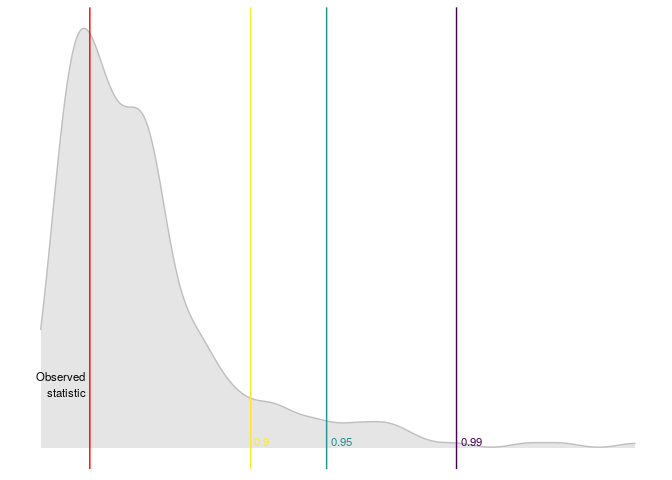
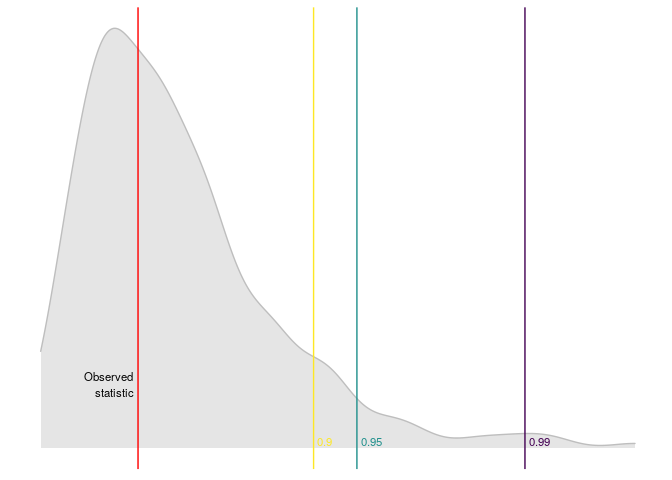
updating readme

Changed region(s): [[0.0625, 0.0312, 0.9062, 0.9688], [0.0625, 0.75, 0.2188, 0.8438], [0.375, 0.9062, 0.4062, 0.9375]]

diff --git a/README.md b/README.md
@@ -19,6 +19,13 @@ model:
 Using the Domínguez-Lobato test which relies on wild-bootstrap. Also the
 Ramsey RESET test is implemented.
 
+## References
+
+  - Manuel A. Domínguez and Ignacio N. Lobato (2019). [Specification
+    testing with estimated
+    variables.](https://www.tandfonline.com/doi/citedby/10.1080/07474938.2019.1687116?)
+    Econometric Reviews.
+
 ## Installation
 
 You can install the released version of `lineartestr` from
@@ -57,10 +64,10 @@ dplyr::glimpse(dl_test$test)
 #> $ name_distribution <chr> "rnorm"
 #> $ name_statistic    <chr> "cvm_value"
 #> $ statistic         <dbl> 7.562182e-29
-#> $ p_value           <dbl> 0.37
-#> $ quantile_90       <dbl> 2.345718e-28
-#> $ quantile_95       <dbl> 3.641501e-28
-#> $ quantile_99       <dbl> 5.749889e-28
+#> $ p_value           <dbl> 0.42
+#> $ quantile_90       <dbl> 2.903875e-28
+#> $ quantile_95       <dbl> 3.660387e-28
+#> $ quantile_99       <dbl> 5.240289e-28
 ```
 
 Also `lineartestr` can plot the results
@@ -90,10 +97,10 @@ dplyr::glimpse(dl_test_p$test)
 #> $ name_distribution <chr> "rnorm"
 #> $ name_statistic    <chr> "cvm_value"
 #> $ statistic         <dbl> 6.324343e-21
-#> $ p_value           <dbl> 0.3633333
-#> $ quantile_90       <dbl> 1.826202e-20
-#> $ quantile_95       <dbl> 2.629817e-20
-#> $ quantile_99       <dbl> 4.179079e-20
+#> $ p_value           <dbl> 0.29
+#> $ quantile_90       <dbl> 1.597342e-20
+#> $ quantile_95       <dbl> 2.599619e-20
+#> $ quantile_99       <dbl> 4.303673e-20
 ```
 
 #### *RESET* test can also be used to test the linear hypothesis
@@ -113,8 +120,8 @@ r_test <- reset_test(lm_model)
 dplyr::glimpse(r_test)
 #> Observations: 1
 #> Variables: 6
-#> $ statistic   <dbl> 1.90962
-#> $ p_value     <dbl> 0.3848852
+#> $ statistic   <dbl> 0.1049317
+#> $ p_value     <dbl> 0.9488867
 #> $ df          <int> 2
 #> $ quantile_90 <dbl> 4.60517
 #> $ quantile_95 <dbl> 5.991465
@@ -130,7 +137,7 @@ plot_reset_test(r_test)
 
 <img src="man/figures/README-plot_reset-1.png" width="70%" />
 
-### Linear fixed effects with [`lfe`](https://cran.r-project.org/web/packages/lfe/lfe.pdf)
+### Linear fixed effects with [`lfe`](https://cran.R-project.org/web/packages/lfe/lfe.pdf)
 
 ``` r
 library(lineartestr)
@@ -195,10 +202,3 @@ dominguez_lobato_test(arma_model) %>%
 ```
 
 <img src="man/figures/README-example_arma-1.png" width="70%" />
-
-## References
-
-  - Manuel A. Domínguez and Ignacio N. Lobato (2019). [Specification
-    testing with estimated
-    variables.](https://www.tandfonline.com/doi/citedby/10.1080/07474938.2019.1687116?)
-    Econometric Reviews.
